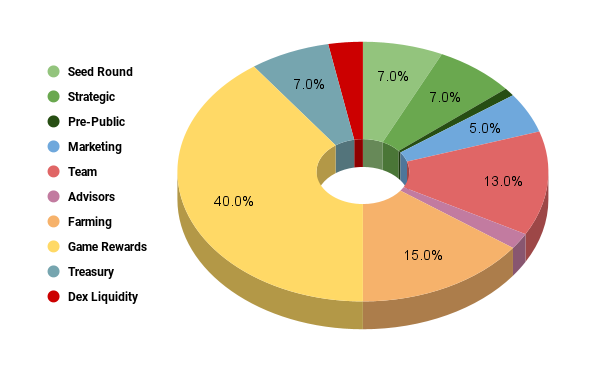
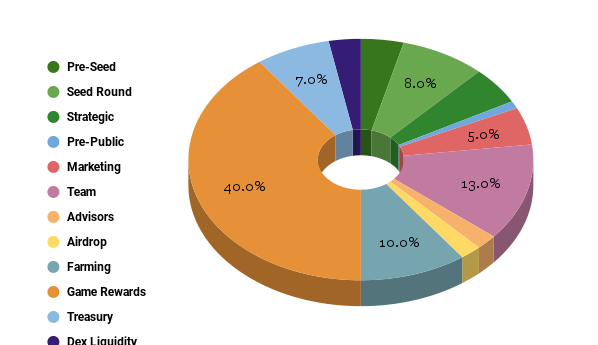
tokenomics update

diff --git a/docs/tokenomics/index.md b/docs/tokenomics/index.md
@@ -68,19 +68,21 @@ $GWIT Total Supply is 1,000,000,000 (1 Billion Tokens). Allocation is shown in t
 
 <center>
 
-| **Allocation** |    **Tokens**     |  **Share**  |
-| -------------- | :---------------: | :---------: |
-| Seed Round     |    70,000,000     |    7.00%    |
-| Strategic      |    70,000,000     |    7.00%    |
-| Pre-Public     |    10,000,000     |    1.00%    |
-| Marketing      |    50,000,000     |    5.00%    |
-| Team           |    130,000,000    |   13.00%    |
-| Advisors       |    20,000,000     |    2.00%    |
-| Farming        |    150,000,000    |   15.00%    |
-| Game Rewards   |    400,000,000    |   40.00%    |
-| Treasury       |    70,000,000     |    7.00%    |
-| Dex Liquidity  |    30,000,000     |    3.00%    |
-| **Total**      | **1,000,000,000** | **100.00%** |
+|               |     **Tokens**    |  **Share**  |
+|---------------|:-----------------:|:-----------:|
+| Pre-Seed      |     40,000,000    |    4.00%    |
+| Seed Round    |     80,000,000    |    8.00%    |
+| Strategic     |     50,000,000    |    5.00%    |
+| Pre-Public    |     10,000,000    |    1.00%    |
+| Marketing     |     50,000,000    |    5.00%    |
+| Team          |    130,000,000    |    13.00%   |
+| Advisors      |     20,000,000    |    2.00%    |
+| Airdrop       |     20,000,000    |    2.00%    |
+| Farming       |    100,000,000    |    10.00%   |
+| Game Rewards  |    400,000,000    |    40.00%   |
+| Treasury      |     70,000,000    |    7.00%    |
+| Dex Liquidity |     30,000,000    |    3.00%    |
+|   **Total**   | **1,000,000,000** | **100.00%** |
 
 </center>
 
@@ -139,20 +141,24 @@ Starting price: TBA
 
 Below is a table overview of the different vesting schedules based on $GWIT allocation.
 
-| **Allocations** |    **Tokens**     |  **Share**  | **TGE Release** | **Cliff (Months)** | **Vesting** | **Period (Months)** |
-| :-------------: | :---------------: | :---------: | :-------------: | :----------------: | :---------: | :-----------------: |
-|   Seed Round    |    70,000,000     |    7.0%     |      3.0%       |         12         |   Linear    |         24          |
-|    Strategic    |    70,000,000     |    7.0%     |      5.0%       |         12         |   Linear    |         12          |
-|   Pre-Public    |    10,000,000     |    1.0%     |      20.0%      |                    |   Linear    |          4          |
-|    Marketing    |    50,000,000     |    5.0%     |      5.0%       |         1          |   Linear    |         35          |
-|      Team       |    130,000,000    |    13.0%    |      0.0%       |         12         |   Linear    |         24          |
-|    Advisors     |    20,000,000     |    2.0%     |      0.0%       |         12         |   Linear    |         24          |
-|     Farming     |    150,000,000    |    15.0%    |      0.0%       |                    |   Daily\*   |                     |
-|  Game Rewards   |    400,000,000    |    40.0%    |      35.0%      |         1          |   Linear    |         20          |
-|    Treasury     |    70,000,000     |    7.0%     |      0.0%       |         6          |    None     |                     |
-|  Dex Liquidity  |    30,000,000     |    3.0%     |     100.0%      |                    |    None     |                     |
+| **Allocations** |     **Tokens**    |  **Share**  | **TGE Release** | **Cliff (Months)** | **Vesting** | **Period (Months)** |
+|:---------------:|:-----------------:|:-----------:|:---------------:|:------------------:|:-----------:|:-------------------:|
+| Pre-Seed        |     40,000,000    |     4.0%    |       3.0%      |         12         |    Linear   |          24         |
+| Seed Round      |     80,000,000    |     8.0%    |       3.0%      |         12         |    Linear   |          24         |
+| Strategic       |     50,000,000    |     5.0%    |       5.0%      |         12         |    Linear   |          18         |
+| Pre-Public      |     10,000,000    |     1.0%    |      20.0%      |                    |    Linear   |          2          |
+| Marketing       |     50,000,000    |     5.0%    |       5.0%      |          1         |    Linear   |          35         |
+| Team            |    130,000,000    |    13.0%    |       0.0%      |         12         |    Linear   |          24         |
+| Advisors        |     20,000,000    |     2.0%    |       0.0%      |         12         |    Linear   |          24         |
+| Airdrop         |     20,000,000    |     2.0%    |       0.0%      |          1         |    Linear   |          4          |
+| Farming         |    100,000,000    |    10.0%    |       0.0%      |                    |    Daily*   |                     |
+| Game Rewards    |    400,000,000    |    40.0%    |      35.0%      |          1         |    Linear   |          20         |
+| Treasury        |     70,000,000    |     7.0%    |       0.0%      |          6         |     None    |                     |
+| Dex Liquidity   |     30,000,000    |     3.0%    |      100.0%     |                    |     None    |                     |
 |    **Total**    | **1,000,000,000** | **100.00%** |                 |                    |             |                     |
 
 _\*Farming Token release starts from 0.18% of Farming tokens on Day 1 then applies 0.005% deflator each day forward._
+
+_Airdrop tokens may be used for future airdrop activities_
 
 </center>
